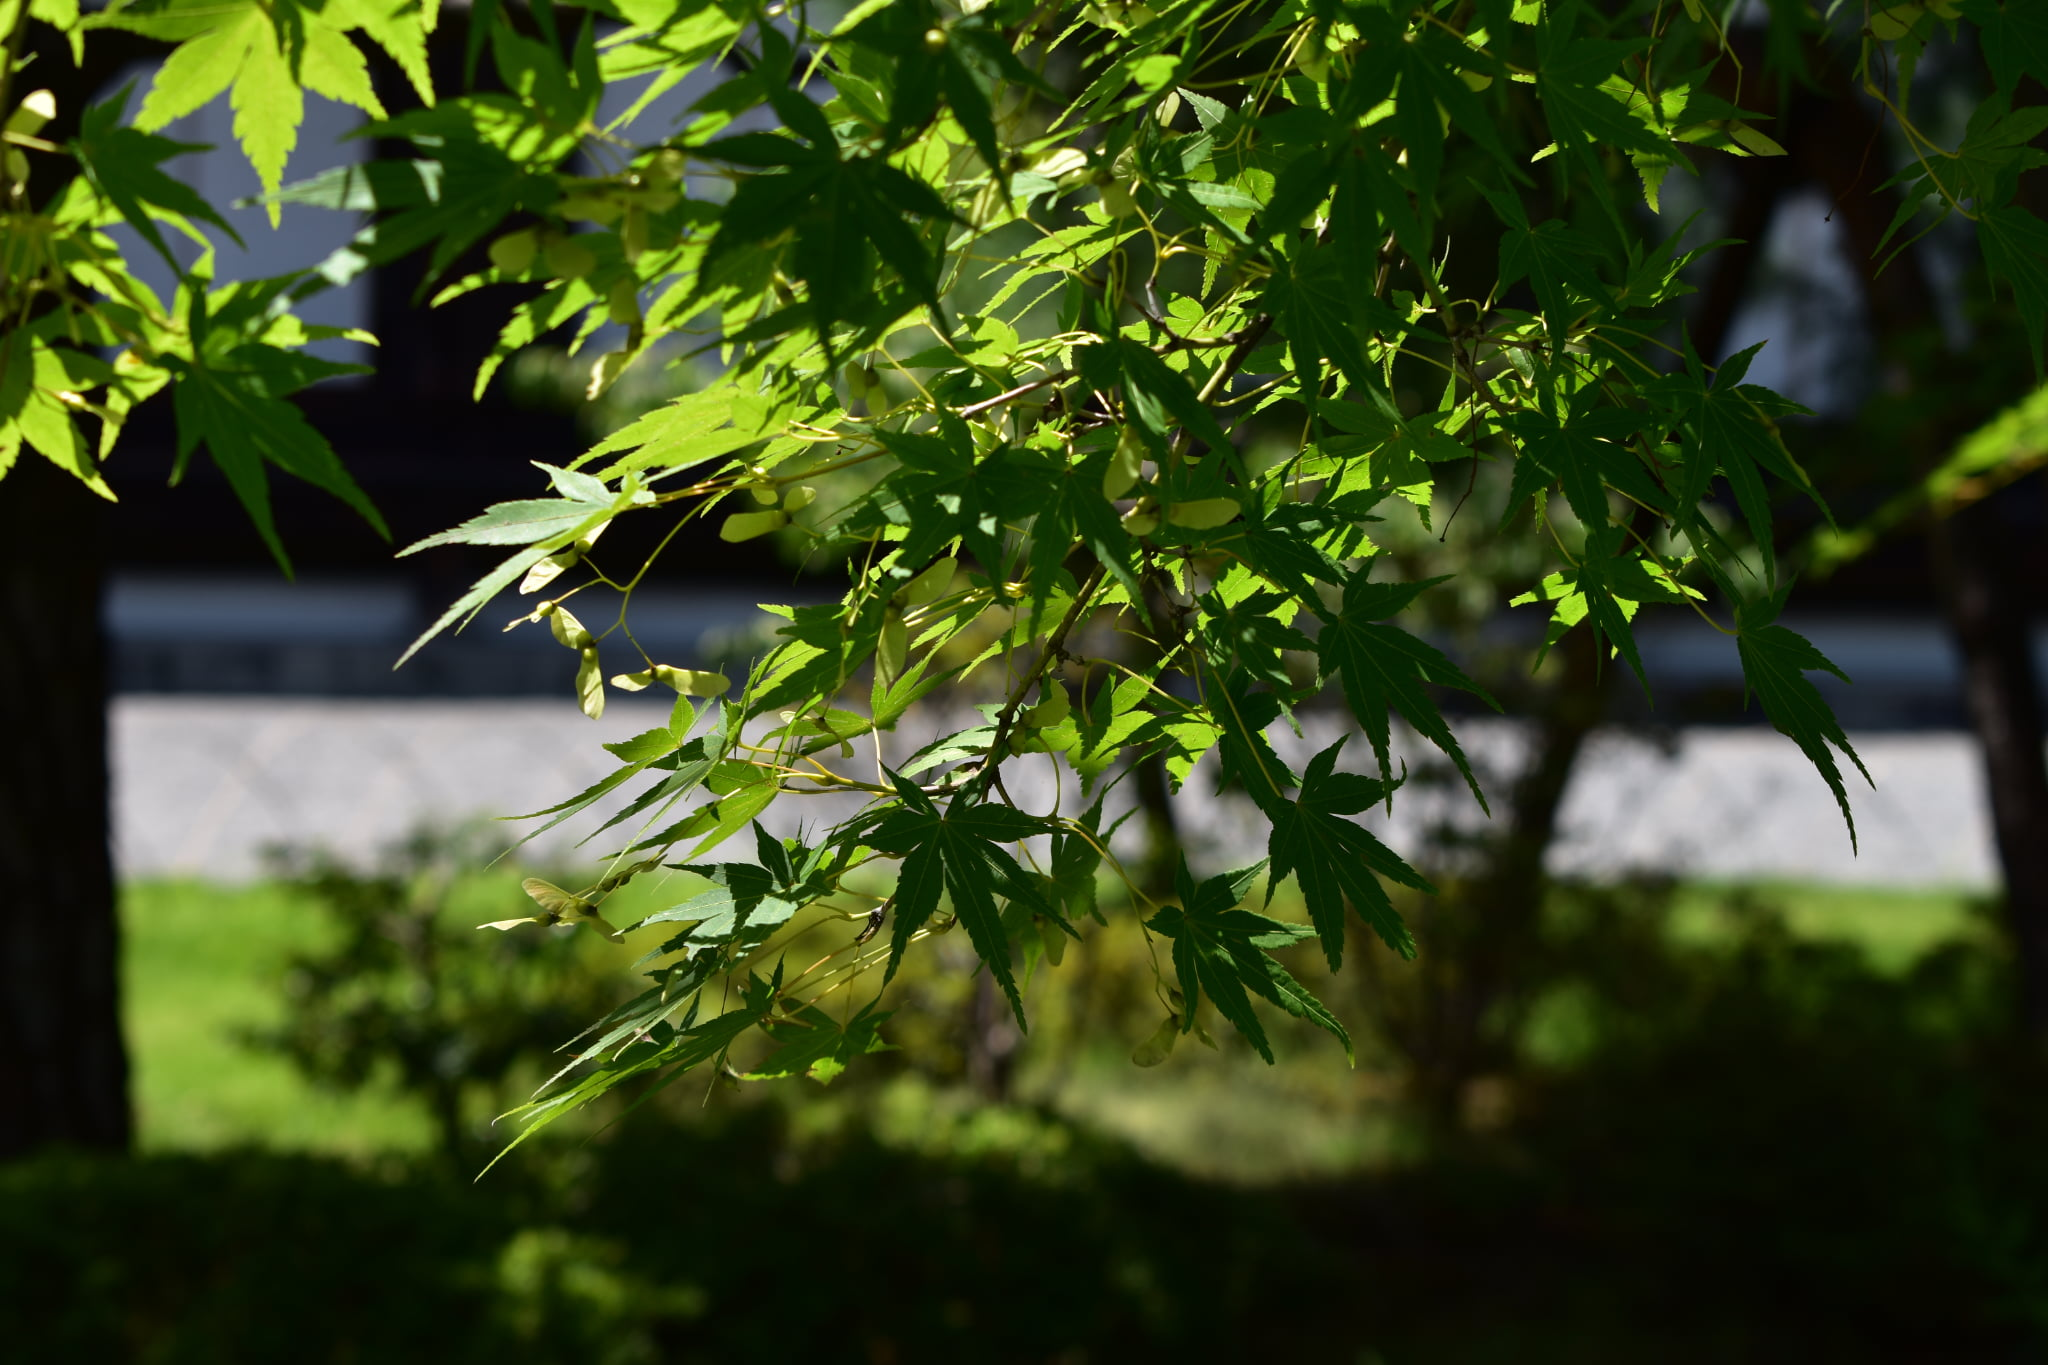
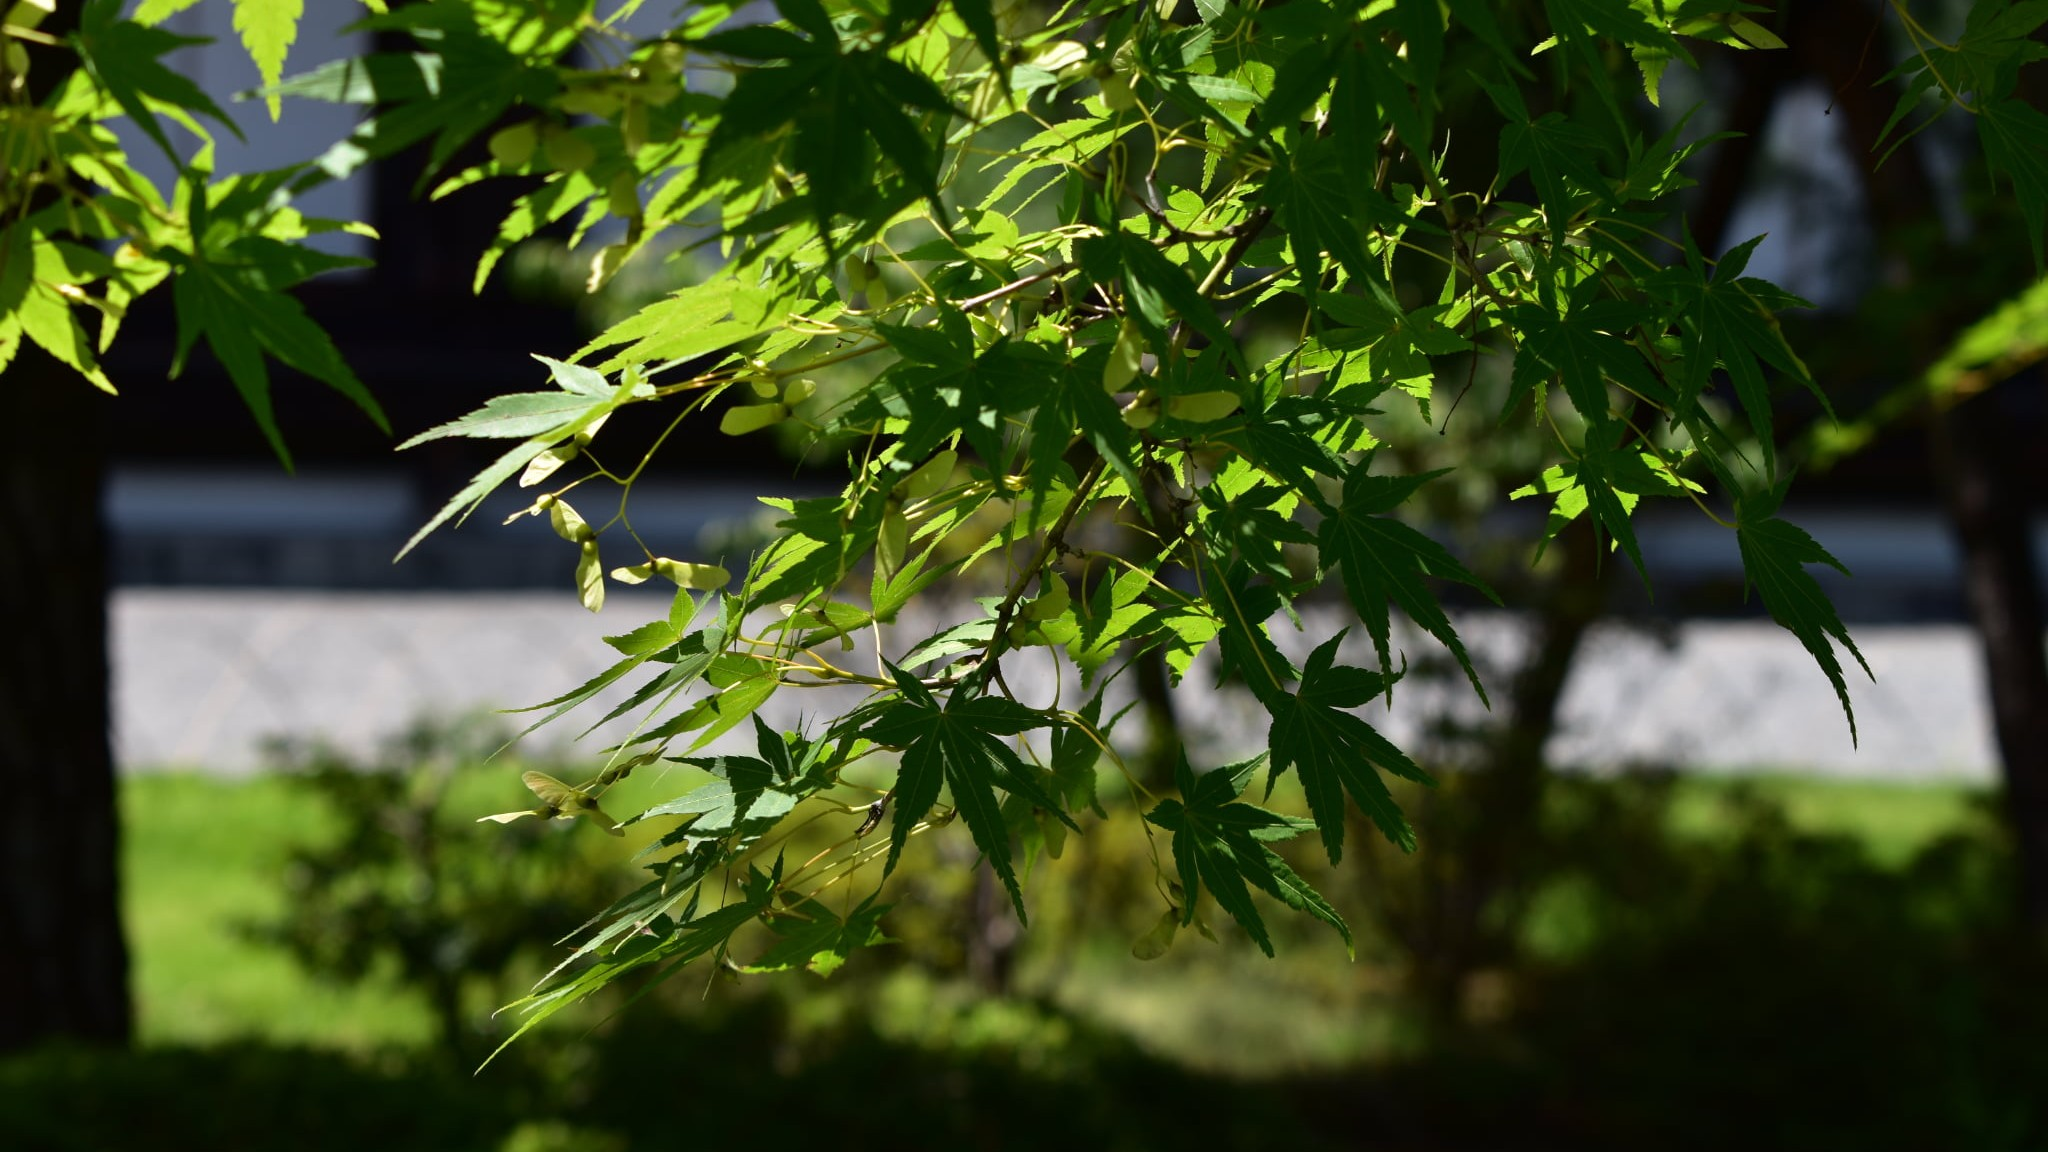
add

diff --git a/item4.html b/item4.html
@@ -3,24 +3,24 @@
 
 <head>
     <meta charset="utf-8">
-    <title>プロダクトタイトル　｜　Furniture Design</title>
-    <meta name="description" content="テキストテキストテキストテキストテキストテキストテキスト">
+    <title>山口七夕ちょうちんまつり | Photo Library</title>
+    <meta name="Pardescription" content="テキストテキストテキストテキストテキストテキストテキスト">
     <meta name="viewport" content="width=device-width, initial-scale=1">
     <link rel="icon" href="img/favicon.ico">
     <link rel="stylesheet" href="https://unpkg.com/ress/dist/ress.min.css">
     <link rel="stylesheet" href="css/style.css">
-    <script src="https://ajax.googleapis.com/ajax/libs/jquery/3.5.1/jquery.min.js"></script>
-    <script src="js/main.js"></script>
+    <link rel="stylesheet" href="https://cdn.jsdelivr.net/npm/slick-carousel@1.8.1/slick/slick-theme.min.css">
+    <link rel="stylesheet" href="https://cdn.jsdelivr.net/npm/slick-carousel@1.8.1/slick/slick.min.css">
 </head>
 
 <body>
     <header id="header" class="wrapper">
         <div class="site-title">
-            <a href="index.html"><img src="img/logo.svg" alt="Furniture Design"></a>
+            <a href="index.html"><img src="img/file (1).svg" alt="PHOTOS"></a>
         </div>
         <nav id="navi">
             <ul class="nav-menu">
-                <li><a href="products.html">PRODUCTS</a></li>
+                <li><a href="products.html">PHOTOS</a></li>
                 <li><a href="about.html">ABOUT</a></li>
 
                 <li><a href=" mailto:xxxxx@xxx.xxx?subject=お問い合わせ">CONTACT</a></li>
@@ -33,45 +33,57 @@
         <div id="mask"></div>
     </header>
     <main>
-        <div class="content wrapper">
-            <h1 class="page-title">プロダクトタイトル</h1>
+        <div class="item content wrapper">
+            <h1 class="page-title">三十三間堂</h1>
             <div id="item">
-                <div class="item-img">
-                    <img src="img/item4.jpg" alt="">
-                </div>
-                <div class="item-text">
-                    <p>
-                        テキストテキストテキストテキストテキストテキストテキストテキストテキスト
-                        テキストテキストテキストテキストテキストテキストテキストテキストテキスト
-                        テキストテキストテキストテキストテキストテキストテキストテキストテキスト
-                    </p>
-                    <p>
-                        テキストテキストテキストテキストテキストテキストテキストテキストテキスト
-                        テキストテキストテキストテキストテキストテキストテキストテキストテキスト
-                        テキストテキストテキストテキストテキストテキストテキストテキストテキスト
-                    </p>
-                    <p>&yen;99,999 +tax</p>
-                    <dl>
-                        <dt>SIZE：</dt>
-                        <dd>W999 × D999 × H999</dd>
-                        <dt>COLOR：</dt>
-                        <dd>テキスト</dd>
-                        <dt>MATERIAL：</dt>
-                        <dd>テキストテキストテキスト</dd>
-                    </dl>
+                <div class="carousel-outer">
+                    <div class="carousel">
+                        <div class="carousel__section">
+                            <img src="img/item4/DSC_0045.JPG" alt="">
+                            <p class="carousel-text">1枚目 "道門"の文字に目が行くようなっている。</p>
+                        </div>
+                        <div class="carousel__section">
+                            <img src="img/item4/DSC_0049.JPG" alt="">
+                            <p class="carousel-text">2枚目 提灯の生の温かさが見えてくる。</p>
+                        </div>
+                        <div class="carousel__section">
+                            <img src="img/item4/DSC_0053.jpg" alt="">
+                            <p class="carousel-text">3枚目 後ろの提灯がぼけていて良い。</p>
+                        </div>
+                    </div>
+
+                    <button class="carousel__button carousel__button-left">&#10094;</button>
+                    <button class="carousel__button carousel__button-right">&#10095;</button>
                 </div>
             </div>
-            <a class="link-text" href="products.html">Back To Products</a>
+            <div class="item-text">
+                <dl>
+                    <dt>DATE：</dt>
+                    <dd>2026 8/11</dd>
+                    <dt>CAMERA：</dt>
+                    <dd>Nikon D5500</dd>
+                    <dt>撮影場所：</dt>
+                    <dd>三十三間堂</dd>
+                </dl>
+                <h3>コメント</h3>
+                <p>初めてのモノクロ撮影だったが文字に目が行く写真や構図に集中できてよかった。</p>
+                <div class="item-map">
+                    <iframe
+                        src="https://www.google.com/maps/embed?pb=!1m18!1m12!1m3!1d3265.145589241769!2d135.7717126!3d34.9878845!2m3!1f0!2f0!3f0!3m2!1i1024!2i768!4f13.1!3m3!1m2!1s0x600108ca8f9b80b3%3A0xaa2b01ebdb651688!2z5LiJ5Y2B5LiJ6ZaT5aCC!5e0!3m2!1sja!2sjp!4v1790483275684!5m2!1sja!2sjp"></iframe>
+                </div>
+            </div>
+            <a class="link-text" href="products.html">Back To Photos</a>
         </div>
     </main>
     <footer id="footer" class="wrapper">
         <ul class="menu">
-            <li><a href="https://www.instagram.com/" target="_blank">INSTAGRAM</a></li>
-            <li><a href="https://twitter.com/" target="_blank">TWITTER</a></li>
-            <li><a href="https://www.facebook.com/" target="_blank">FACEBOOK</a></li>
+            <li><a href="products.html">PHOTOS</a></li>
+            <li><a href="about.html">ABOUT</a></li>
         </ul>
-        <p class="copyright">&copy; Furniture Design</p>
+        <p class="copyright">&copy; Photo Library</p>
     </footer>
+    <script src="https://ajax.googleapis.com/ajax/libs/jquery/3.5.1/jquery.min.js"></script>
+    <script src="js/main.js"></script>
 </body>
 
 </html>

diff --git a/products.html b/products.html
@@ -59,9 +59,9 @@
                 </li>
                 <li>
                     <a href="item4.html">
-                        <img src="img/item4.jpg" alt="">
-                        <p>プロダクトタイトルプロダクトタイトル</p>
-                        <p>&yen;99,999 +tax</p>
+                        <img src="img/item4/DSC_0045.JPG" alt="">
+                        <p>三十三間堂</p>
+                        <p>2026 8/11</p>
                     </a>
                 </li>
                 <li>

diff --git a/index.html b/index.html
@@ -58,9 +58,9 @@
                 </li>
                 <li>
                     <a href="item4.html">
-                        <img src="img/item4.jpg" alt="">
-                        <p>プロダクトタイトルプロダクトタイトル</p>
-                        <p>&yen;99,999 +tax</p>
+                        <img src="img/item4/DSC_0045.JPG" alt="">
+                        <p>三十三間堂</p>
+                        <p>2026 8/11</p>
                     </a>
                 </li>
             </ul>
